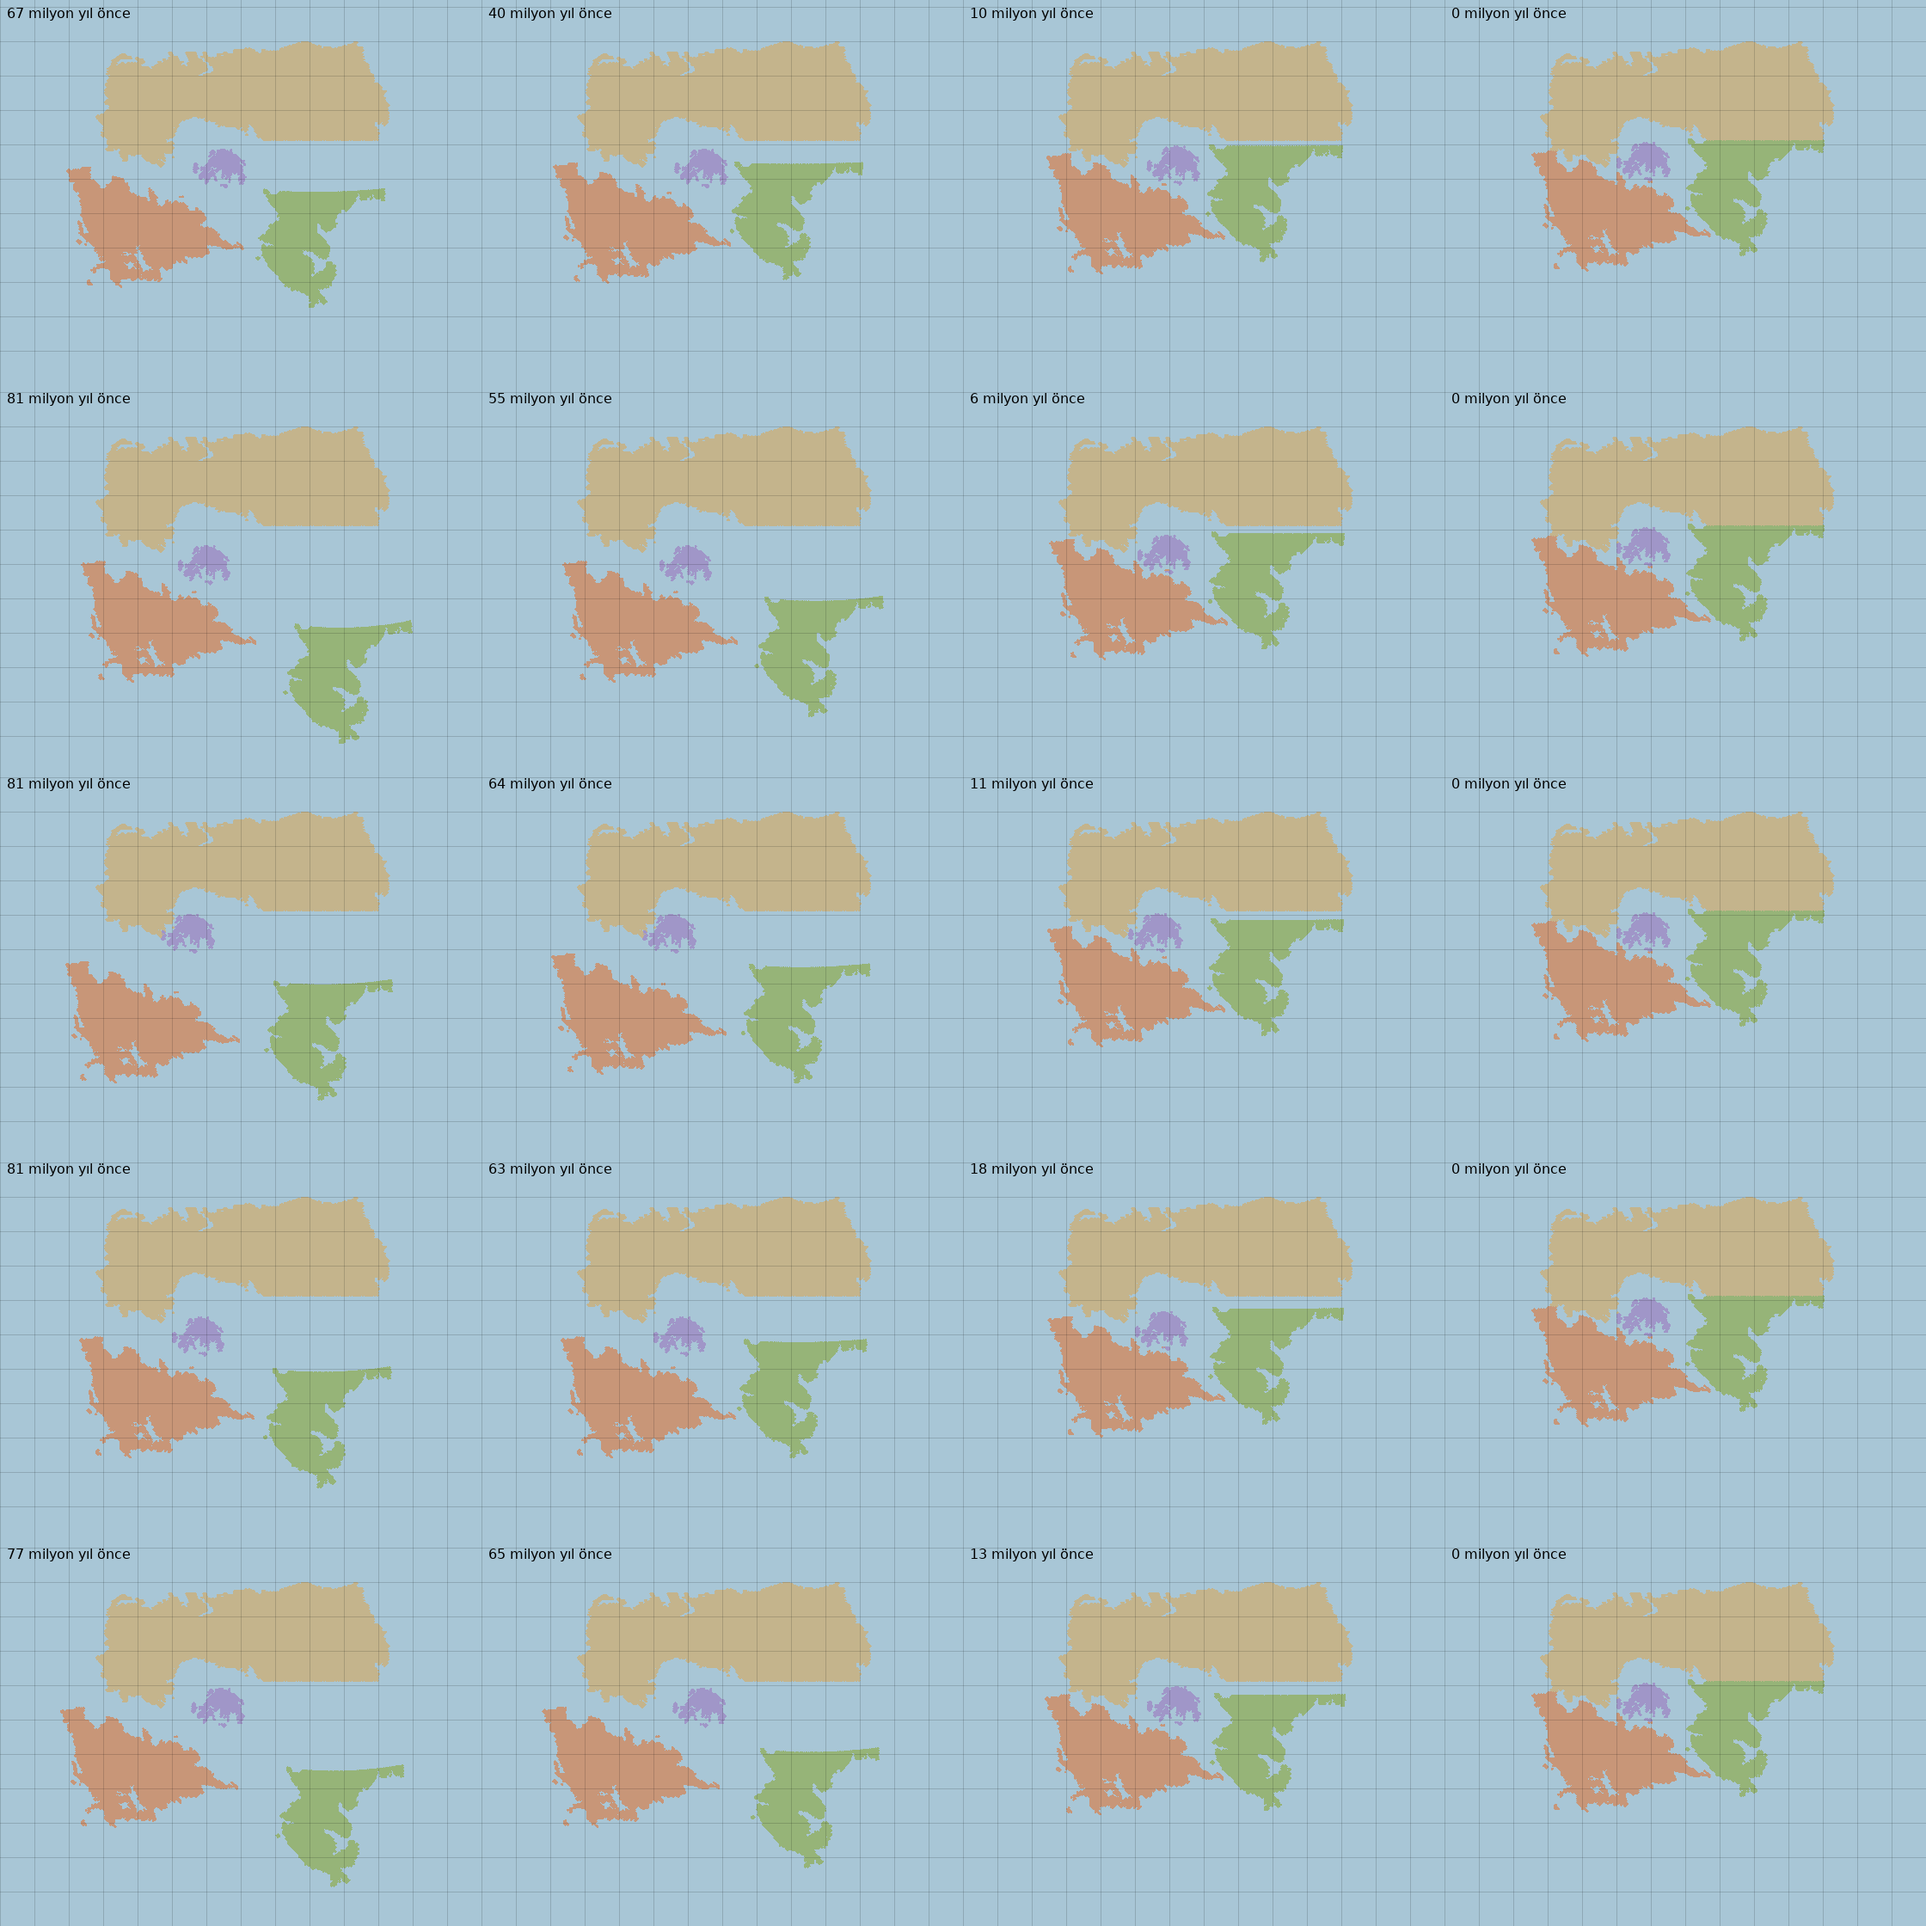
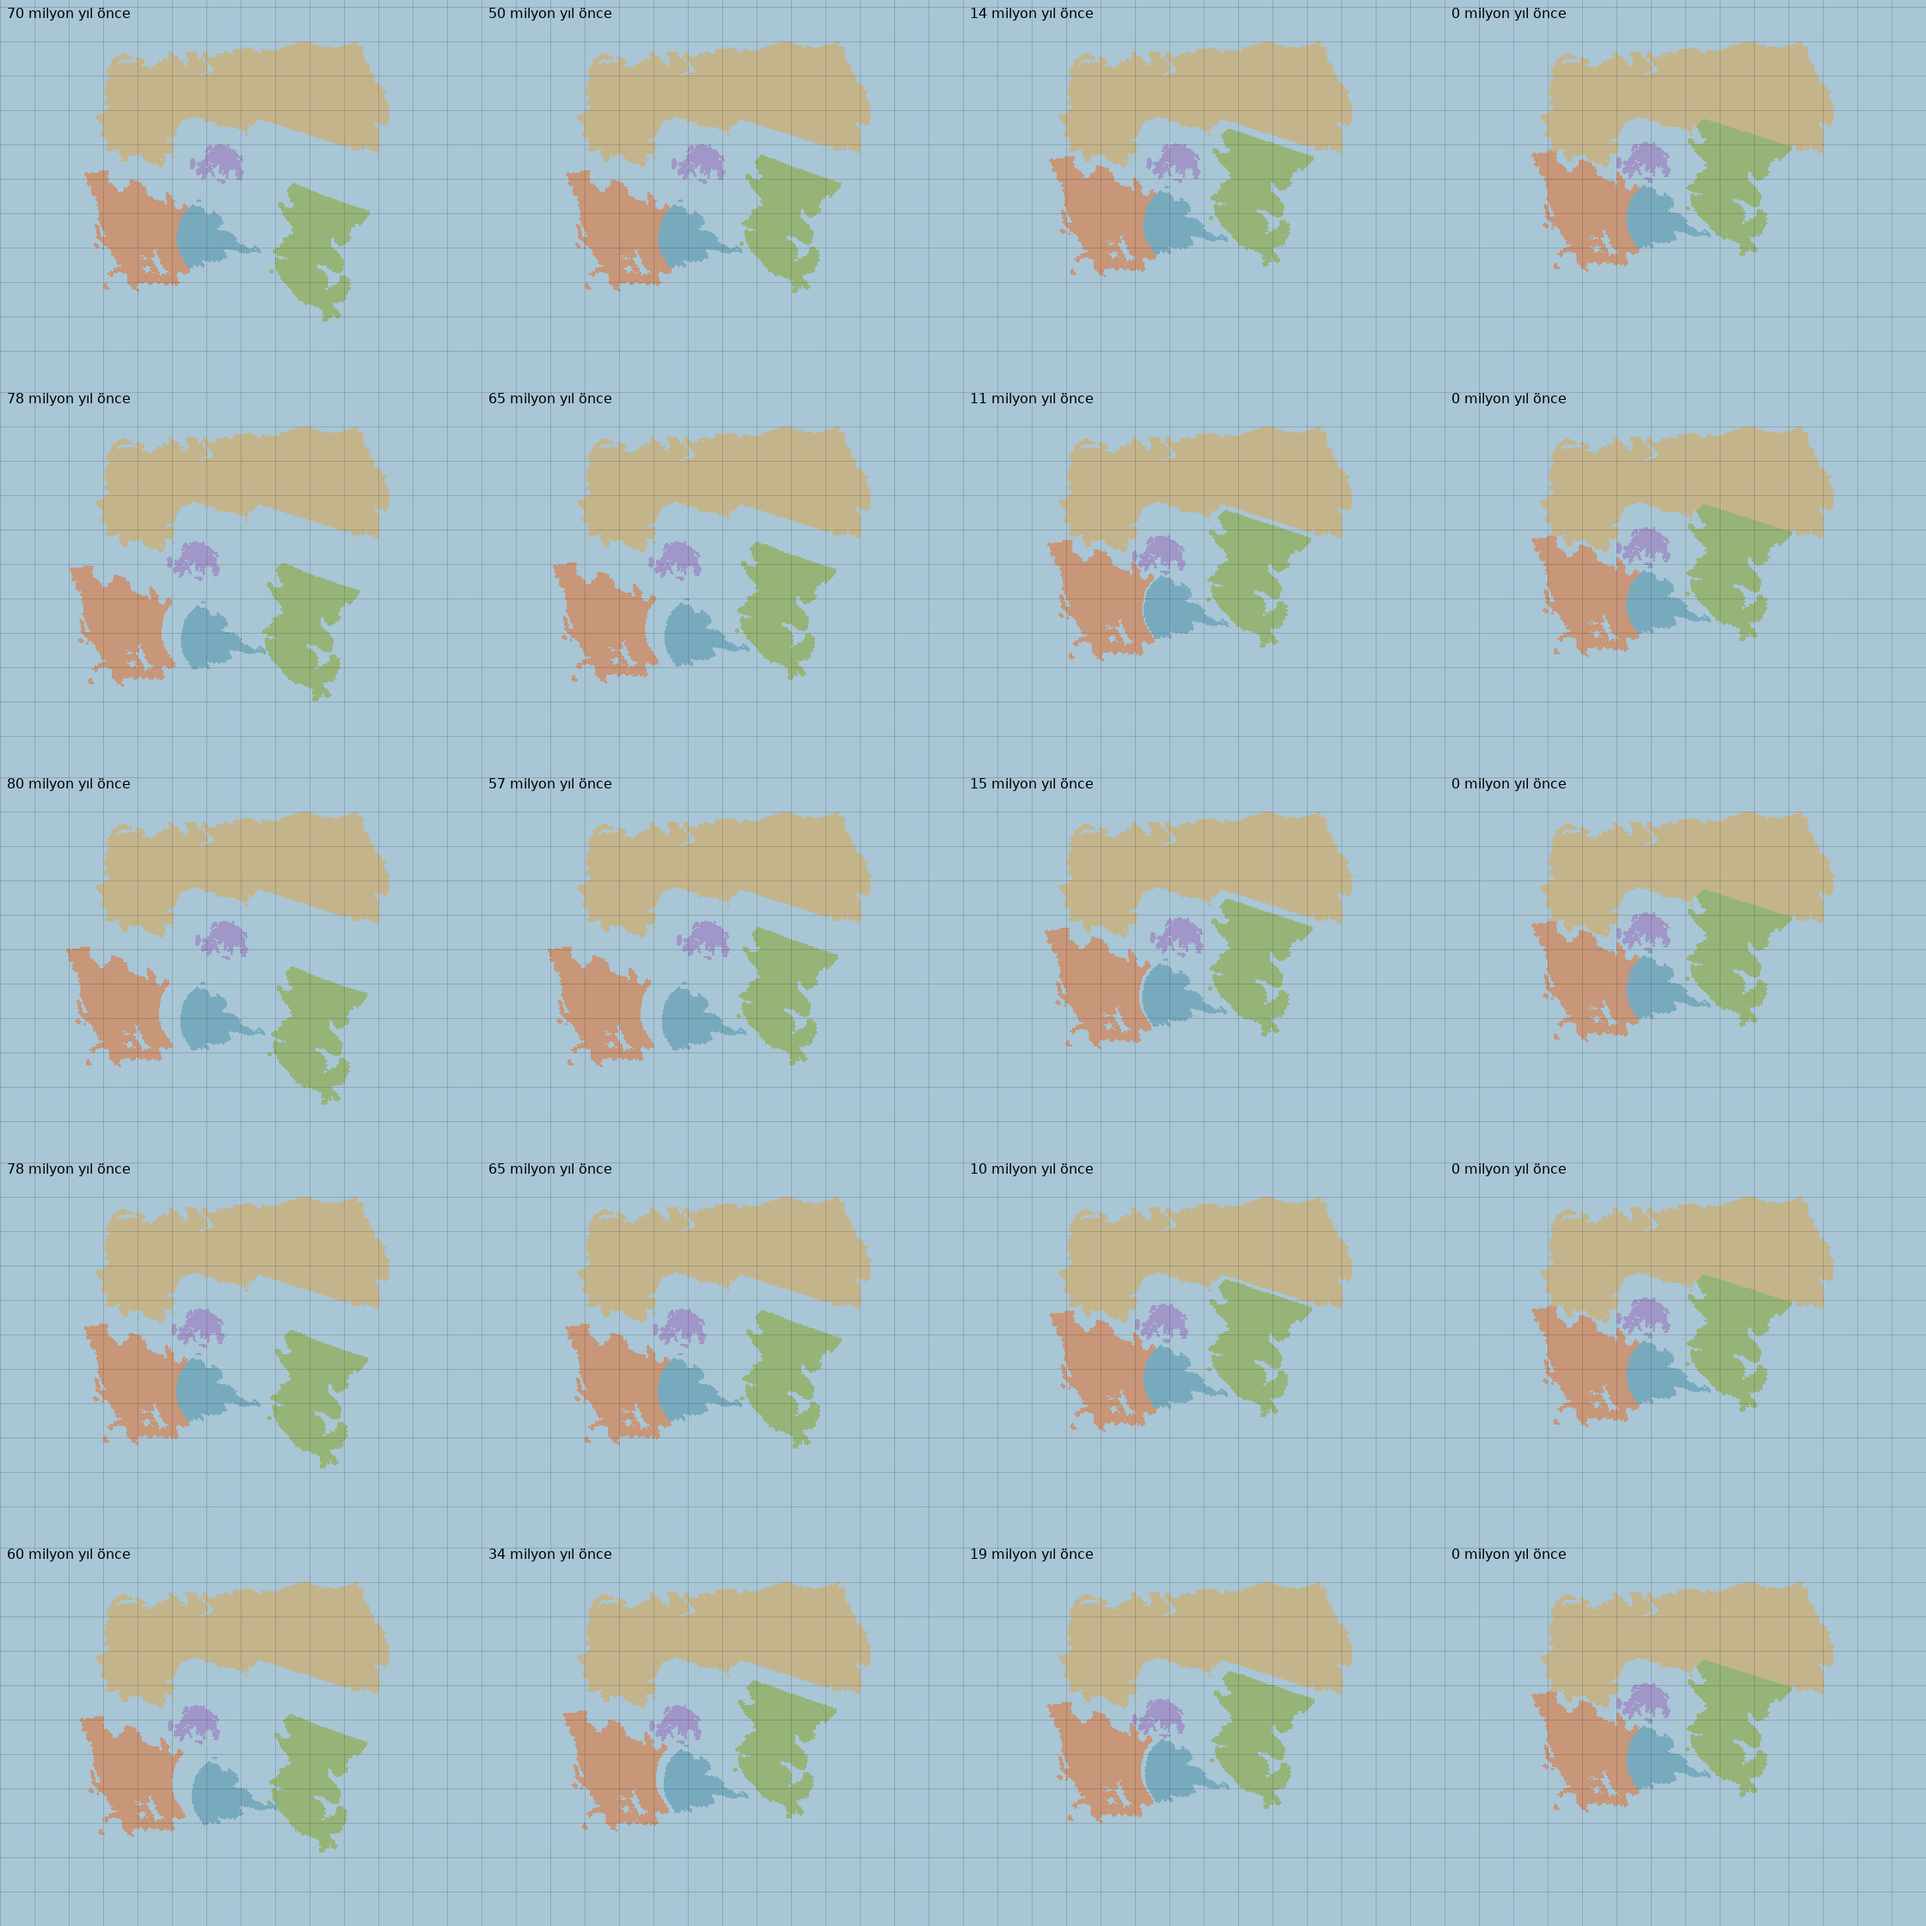
Sahibin işaretleriyle aday arama: 329/1200 geçerli, Alp ve Apenin seçenekleri
Claude-Session: https://claude.ai/code/session_01TrTgWsQ7k9npTcPJkL6aYQ

diff --git a/deneyler/SONUCLAR.md b/deneyler/SONUCLAR.md
@@ -94,3 +94,11 @@ Maske `veri/maske.png` (3808 × 2914, eşdikdörtgen, sınır kutusu 44,43°B il
 Batı köprüsü test maskesinden geniş: 40,3°B ile 37,6°B arasında, yaklaşık 28,2°K, genişlik yaklaşık 250 km. Dikiş buraya taşındı (`veri/senaryo.json`). Blok alanları (Nside 512): Kuzey 17,53, Güneybatı 9,73, Güneydoğu 6,62, Takımada 0,90 milyon km², toplam kara 34,78 milyon km².
 
 Üretici (Nside 128, 300 tohum, 6 nesil): 1200 aday, 480 geçerli (tohumda 5). İhlaller: çakışma 733, geçit 534, hız 108. Çelişki yok. Seçilen beş aday: çarpışma 40, 55, 64, 63, 65 milyon yıl önce; güneydoğu yönü −16° ile −24° (yine güneydoğudan geliyor); güneybatı her adayda yaklaşıyor (yön 20° ile 62°). Test maskesinden farklı olarak mikro kıtanın güneydoğu bloğuna sıkıştığı geçerli bir aday çıktı (1145).
+
+## Sahibin bölge işaretleriyle (12 Kasım 2026)
+
+İşaretler `veri/sahip_isaretleri.png`; renkler çokgene çevrildi (`veri/senaryo.json`). Kırmızı sıradağ alanı 1,39, sarı çanak 3,55 milyon km² (İran platosu yaklaşık 3,7 milyon km²). Kırmızı alanın ekseni 0,2°D 40,1°K ile 32,1°D 30,0°K arasında, yaklaşık 3000 km. Eksenin batı ucu karada bittiği için duvar dikişi 5°D yakınında güneye kırılıp iç denizin kuzeydoğu körfezine bağlandı (bizim kararımız). Mavi çizginin kara üzerindeki batı kenarı yeni Yarımada dikişi; Yarımada 2,69 milyon km², güney geçidinin batı kıyısı artık bu blok.
+
+Yeni kod: plato çokgenle verilebilir (Carpisma.plato_maske); istek 3 iki türlü: Alp (Yarımada doğudan yaklaşıp kökünden çarpar, kökte kuşak, kabuk %95 ≥ 55 km), Apenin (Güneybatı ile birlikte gider, omurga şeridinde kalınlaşma, kabuk %90 42 ile 52 km).
+
+Üretici (Nside 128): 300 rastgele tohumun hiçbiri geçerli değil; mutasyonla 1200 adayda 329 geçerli. İhlal: çakışma 1040, geçit 665, hız 151. 80 adaylık ayrı örnekte en sık çakışan çift Güneydoğu ile Yarımada (65), sonra Güneybatı ile Takımada (30). Çelişki yok; seçilen beşin hepsi dört isteği sağlıyor (2 Apenin, 3 Alp). Seçilenlerin bir kısmı aralık sınırında: güneydoğu yönü −25° (aralığın ucu), çarpışma 65 milyon yıl (aralığın ucu). Aralık genişletilince daha kuzeybatıdan gelen ve daha eski çarpışmalar da geçerli çıkabilir. Apenin türünde ölçülen 50,0 km kabuğun üst sınırı (hmax); omurga ölçüsü bu sınırla belirleniyor.
